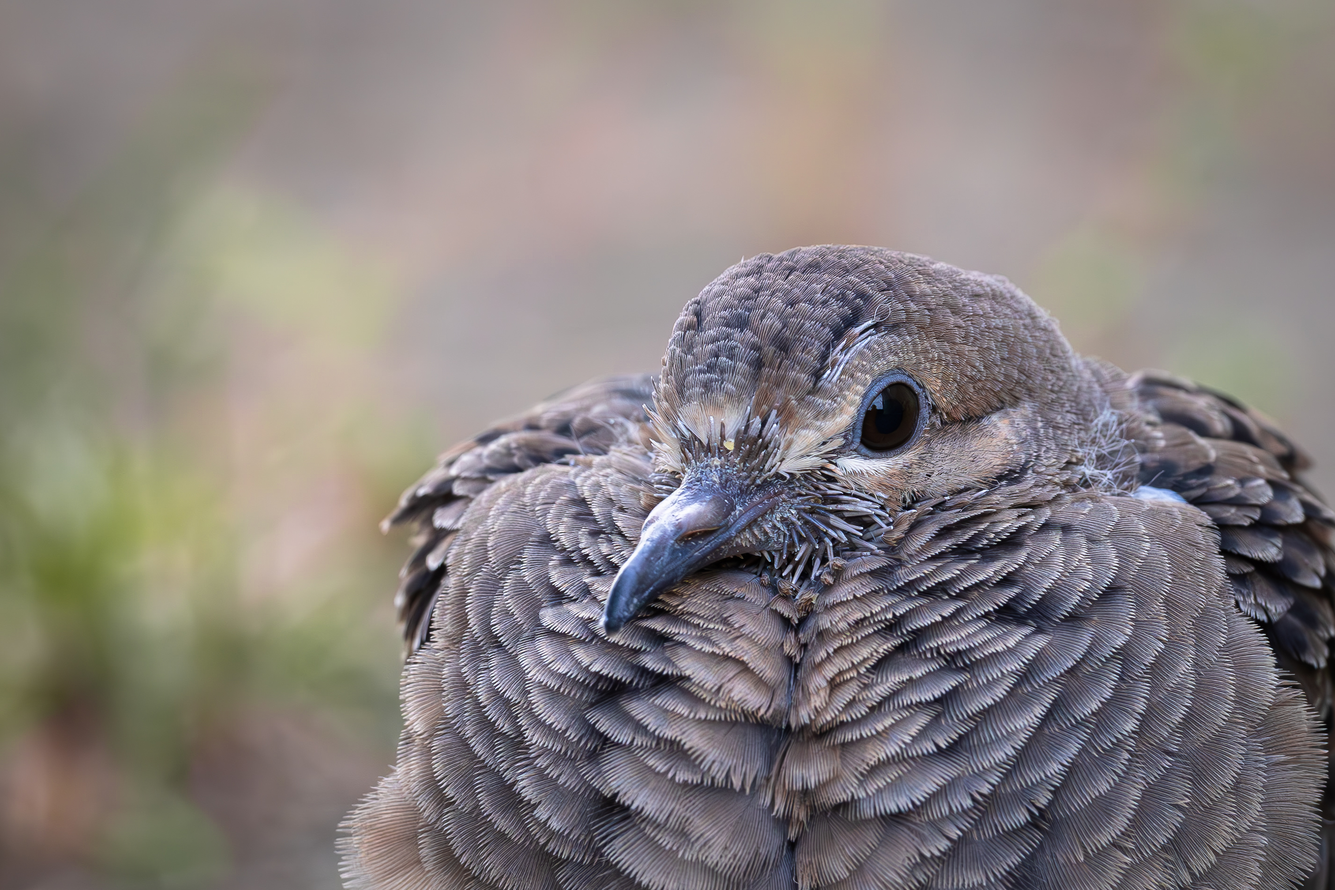
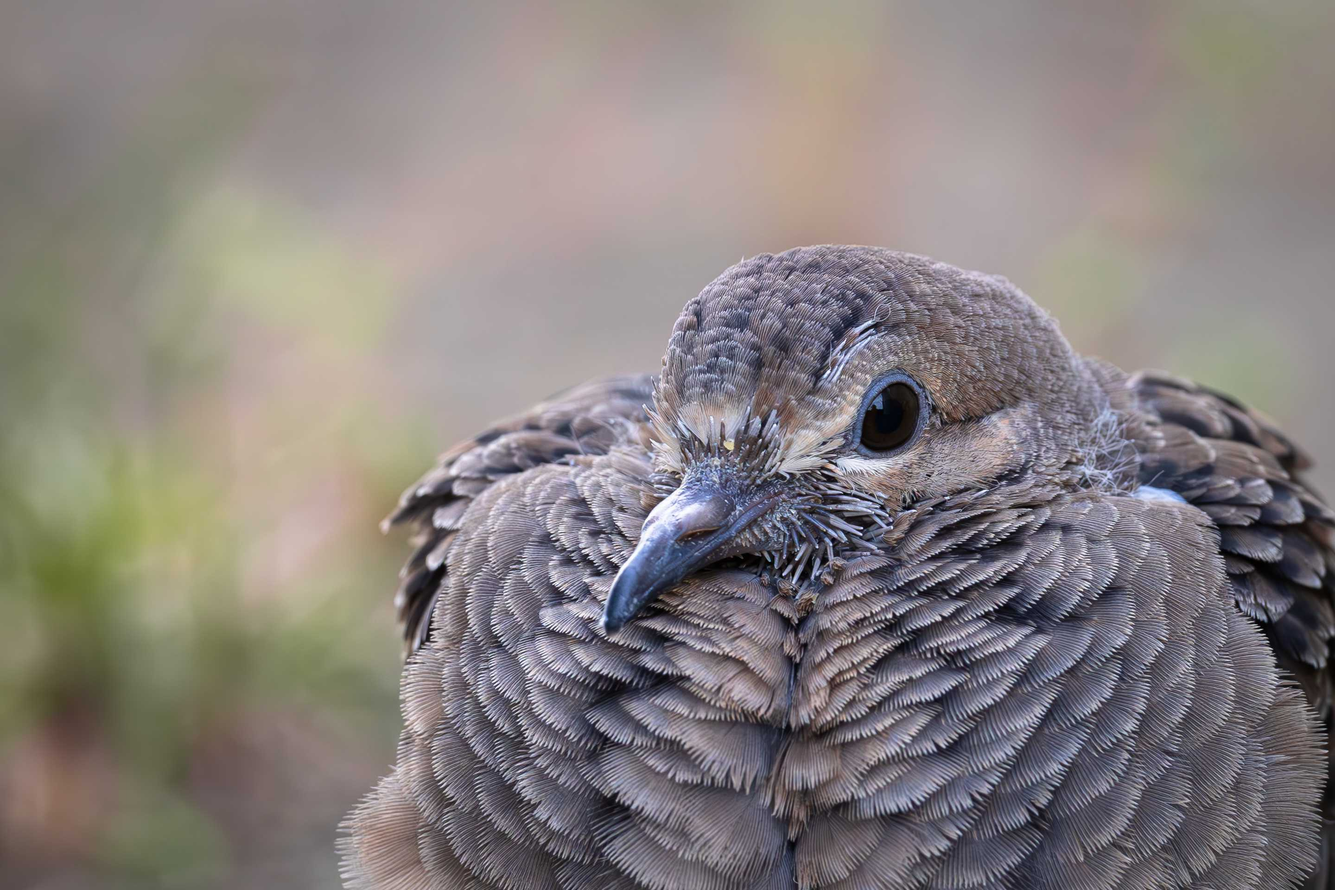
Compressed images and updated home page

diff --git a/pictors.html b/pictors.html
@@ -24,6 +24,9 @@
     </head>
 
     <body class="bg-dark">
+        <script>
+            var isMobile = /Android|webOS|iPhone|iPad|iPod|BlackBerry|IEMobile|Opera Mini/i.test(navigator.userAgent);
+        </script>
         <div id="app">
             <div id="banner">
 
@@ -117,13 +120,13 @@
                     </div>
                     <div id="expandedNav" class="collapse navbar-collapse">
                         <ul class="d-flex w-100 navbar-nav">
-                            <li class="nav-item nav-item-expanded flex-fill" @click=showpage('#home')>
+                            <li class="nav-item nav-item-expanded flex-fill active" @click=showpage('#home')>
                                 <span>Home</span>
                             </li>
                             <li class="nav-item nav-item-expanded flex-fill" @click=showpage('#portfolio')>
                                 <span>See My Work</span>
                             </li>
-                            <li class="nav-item nav-item-expanded flex-fill active" @click=showpage('#gear')>
+                            <li class="nav-item nav-item-expanded flex-fill" @click=showpage('#gear')>
                                 <span>Gear</span>
                             </li>
                             <!-- <li class="nav-item flex-fill">
@@ -149,20 +152,81 @@
             </div>
 
 
-            <div id="content" class="mt-5">
-                <div id="home" class="container content-page">
-                    <h2 class="text-center">Decided to cook up a static webpage because social media description boxes are just TOO DANG SMALL.</h2>
+            <div id="content">
+                <div id="home" class="content-page">
+                    <div id="mobileInterestsIntro" class="text-center my-5 m-auto">
+                        <h1>My interests</h1>
+                        <h4>The following tiles show my main photographic interests. However, I don't limit myself to certain styles or niches. If I like the thing I'm seeing, I will capture it. To view my galleries and albums: Navigate to "See my Work" or "Gear", or visit my socials for the links. Thank you. </h4>
+                    </div>
+                    <div class="row my-5">
+                        <div class="col" id="interestNav">
+                            <div class="d-flex flex-column nav" id="interest-nav-list">
+                            
+                                <h1><u>Interests</u></h1>
+                                <div class="interest-nav-link" data-bs-target="interestFilm">
+                                    <a href="#interestFilm">35mm Film</a>
+                                </div>
+                                <div class="interest-nav-link" data-bs-target="interestAviation">
+                                    <a href="#interestAviation">Aviation</a>
+                                </div>
+                                <div class="interest-nav-link" data-bs-target="interestAnimals">
+                                    <a href="#interestAnimals">Animals</a>
+                                </div>
+                                <div class="interest-nav-link" data-bs-target="interestArchitecture">
+                                    <a href="#interestArchitecture">Architecture</a>
+                                </div>
+                                <div class="interest-nav-link" data-bs-target="interestTravel">
+                                    <a href="#interestTravel">Travel</a>
+                                </div>
+                                <div class="interest-nav-link" data-bs-target="interestStreet">
+                                    <a href="#interestStreet">Street</a>
+                                </div>
+                                <div class="interest-nav-link" data-bs-target="interestCreative">
+                                    <a href="#interestCreative">Creative</a>
+                                </div>
+                            </div>
+                        </div>
+                        <div class="col">
+                            <div id="interestFilm" class="interest-banner mb-5">
+                                <img src="pictors/img/interests/Film/1.jpg" class="d-block interest-img" alt="...">
+                                <h1 class="interest-banner-text">35mm Film</h1>
+                            </div>
+                            <div id="interestAviation" class="interest-banner mb-5">
+                                <img src="pictors/img/interests/Aviation/1.jpg" class="d-block interest-img" alt="...">
+                                <h1 class="interest-banner-text">Aviation</h1>
+                            </div>
+                            <div id="interestAnimals" class="interest-banner mb-5">
+                                <img src="pictors/img/interests/Animals/1.jpg" class="d-block interest-img" alt="...">
+                                <h1 class="interest-banner-text">Animals</h1>
+                            </div>
+                            <div id="interestArchitecture" class="interest-banner mb-5">
+                                <img src="pictors/img/interests/Architecture/1.jpg" class="d-block interest-img" alt="...">
+                                <h1 class="interest-banner-text">Architecture</h1>
+                            </div>
+                            <div id="interestTravel" class="interest-banner mb-5">
+                                <img src="pictors/img/interests/Travel/1.jpg" class="d-block interest-img" alt="...">
+                                <h1 class="interest-banner-text">Travel</h1>
+                            </div>
+                            <div id="interestStreet" class="interest-banner mb-5">
+                                <img src="pictors/img/interests/Street/1.jpg" class="d-block interest-img" alt="...">
+                                <h1 class="interest-banner-text">Street</h1>
+                            </div>
+                            <div id="interestCreative" class="interest-banner mb-5">
+                                <img src="pictors/img/interests/Creative/1.jpg" class="d-block interest-img" alt="...">
+                                <h1 class="interest-banner-text">Creative</h1>
+                            </div>
+                        </div>
+                    </div>
                 </div>
 
-                <div id="portfolio" class="container content-page">
-                    <h2 class="my-3">On lomography: <a class="word-break" href="https://www.lomography.com/homes/rpn">https://www.lomography.com/homes/rpn</a></h2>
-                    <h2 class="my-3">On instagram: <a class="word-break" href="https://www.instagram.com/rpn_pictors/">https://www.instagram.com/rpn_pictors/</a></h2>
-                    <hr>
-                    <h4 class="text-center my-3">You can also see camera or lens specific galleries by using the links listed in the "gear" section.</h4>
+                <div id="portfolio" class="container content-page my-5 m-auto">
+                    <h2 class="my-5">On lomography: <a class="word-break" href="https://www.lomography.com/homes/rpn" target="_blank" rel="noopener noreferrer">https://www.lomography.com/homes/rpn</a></h2>
+                    <h2 class="my-5">On instagram: <a class="word-break" href="https://www.instagram.com/rpn_pictors/" target="_blank" rel="noopener noreferrer">https://www.instagram.com/rpn_pictors/</a></h2>
+                    <h2 class="my-5">You can see camera or lens specific galleries by using the links listed on the "Gear" page.</h2>
                 </div>
 
                 <div id="gear" class="container content-page">
-                    <h3 class="text-center">
+                    <h3 class="text-center my-5">
                         Filters:
                         <span class="badge rounded-pill bg-dark border category-filter my-1 active" id="accessoryFilter" @click="activeCategoryFilter = ''">None</span>
                         <span class="badge rounded-pill bg-dark border category-filter my-1" id="cameraFilter" @click="activeCategoryFilter = 'camera'">Camera</span>

diff --git a/pictors/pictors.css b/pictors/pictors.css
@@ -8,7 +8,7 @@ ul, p, .col, .col-md-3, hr, .row{
     display: none;
 }
 
-#gear{
+#home{
     display: block;
 }
 
@@ -246,15 +246,19 @@ ul, p, .col, .col-md-3, hr, .row{
     #collapsibleNavbar {
         display: none;
     }
-
 }
 
 @media (max-width: 768px) {
     #navbar.sticky-top {
         position: relative!important;
     }
+    #interestNav{
+        display: none;
+    }
 }
 
+#home{
+}
 
 #content{
     color: white;
@@ -262,4 +266,107 @@ ul, p, .col, .col-md-3, hr, .row{
 
 .word-break{
     word-break: break-all;
+}
+
+#interestNav{
+    max-width: 25%;
+}
+
+#interest-nav-list{
+    position: sticky;
+    height: 33vh;
+    top:33vh;
+    max-height: 100vh;
+    min-height: fit-content;
+    justify-content: space-between;
+    text-align: center;
+}
+
+.interest-nav-link{
+    display: block;
+    /* width: 100%; */
+}
+.interest-nav-link > a{
+    text-decoration: none;
+    color: white;
+    font-size: x-large;
+    margin-bottom: 10px;
+    /* width: 100%; */
+    display: block;
+
+}
+
+.interest-nav-link > a:hover{
+    transition: .25s;
+    text-decoration: underline;
+    padding-left:10px;
+    
+}
+
+.interest-banner{
+    position: relative;
+    display: block;
+    width: 90%;
+    text-align: center;
+    cursor: pointer;
+    aspect-ratio: 2/1;
+    scroll-margin-top: 25vh;
+    border: 1px solid white;
+    overflow: hidden;
+}
+
+#mobileInterestsIntro{
+    width: 50%;
+}
+
+@media (max-width: 768px) {
+    .interest-banner{
+        position: relative;
+        display: block;
+        width: 100%;
+        text-align: center;
+        cursor: pointer;
+        aspect-ratio: 2/1;
+        scroll-margin-top: 25vh;
+        border: 1px solid white;
+        overflow: hidden;
+    }
+
+    #mobileInterestsIntro{
+        width: 90%;
+    }
+}
+
+.interest-banner:hover{
+    transition: .25s;
+}
+
+.interest-banner:hover > .interest-img{
+    transition: .25s;
+    filter: blur(0px);
+}
+.interest-banner:hover > .interest-banner-text {
+    transition: .25s;
+    opacity: 0;
+}
+
+.interest-banner > h1{
+    transition: .25s;
+    position: absolute;
+    top: 50%;
+    left: 50%;
+    transform: translate(-50%, -50%);
+    font-size: max(7vw, 350%);
+    -webkit-text-stroke: 2px #000; 
+    text-stroke: 2px #000; 
+}
+
+
+.interest-img{
+    transition: .25s;
+    display: block;
+    width: 100%;
+    object-fit: cover;
+    aspect-ratio: 2/1;
+    filter: blur(3px);
 }

diff --git a/pictors/pictors.js b/pictors/pictors.js
@@ -171,7 +171,8 @@ var app = new Vue({
         showpage(id){
             $(".content-page").hide()
             $(id).show()
-
+            $('html, body').animate({scrollTop : 0}, 0); // Smooth scroll animation (800ms duration)
+            return false; // Prevent default anchor behavior
         },
 
         write(){
@@ -219,5 +220,10 @@ $(document).ready(function(){
         }else{
             $(".navbar-toggler").addClass("active")
         }
+    })
+    $("#gear").click(function(){
+        console.log("hello")
+        $('html, body').animate({scrollTop : 0}, 500); // Smooth scroll animation (800ms duration)
+        return false; // Prevent default anchor behavior
     })
 });
